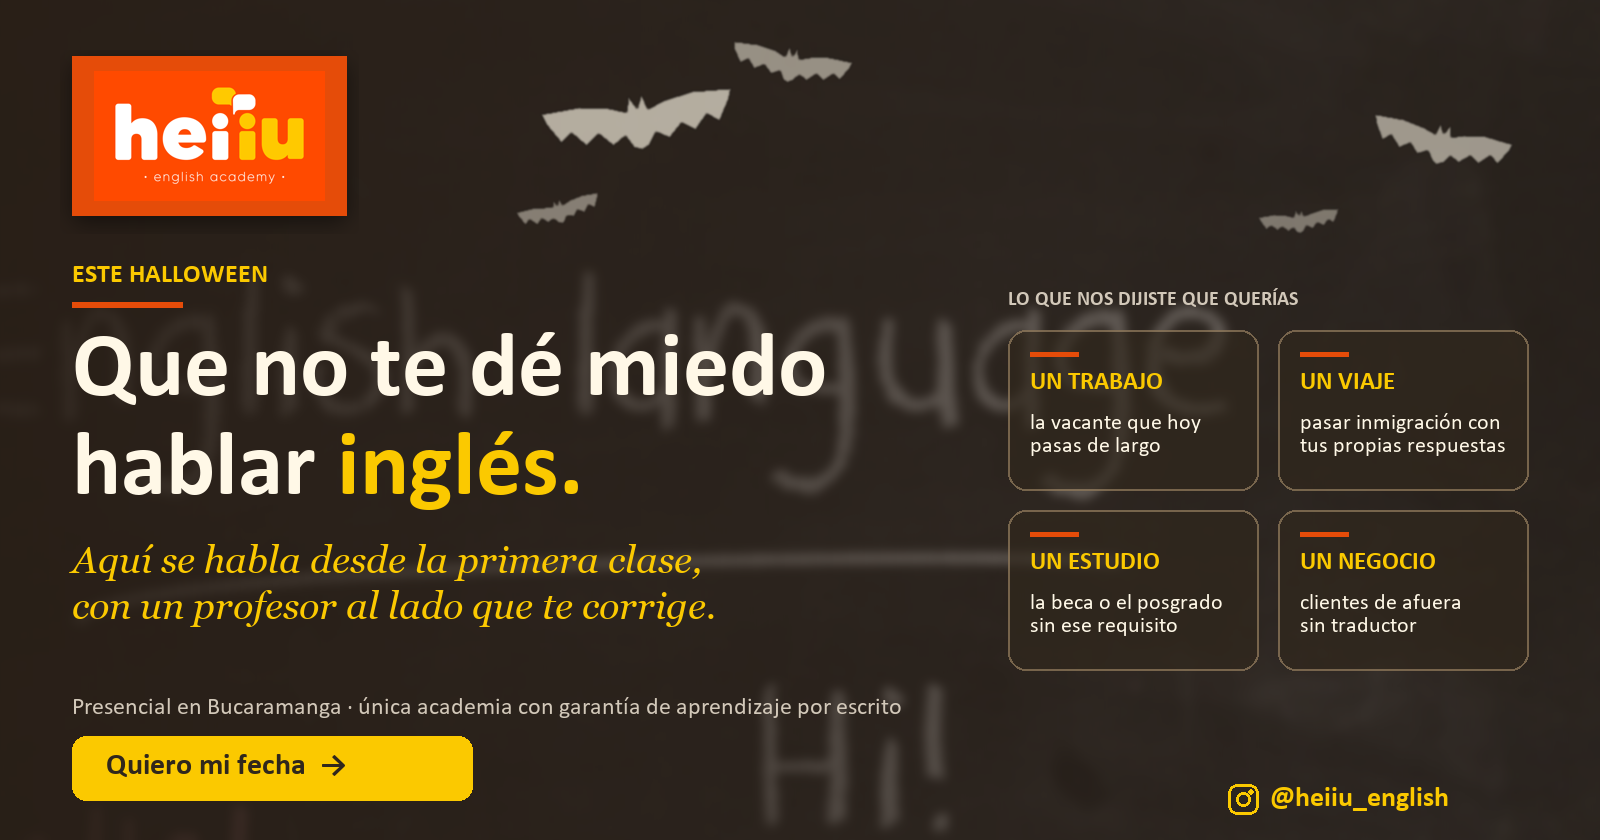
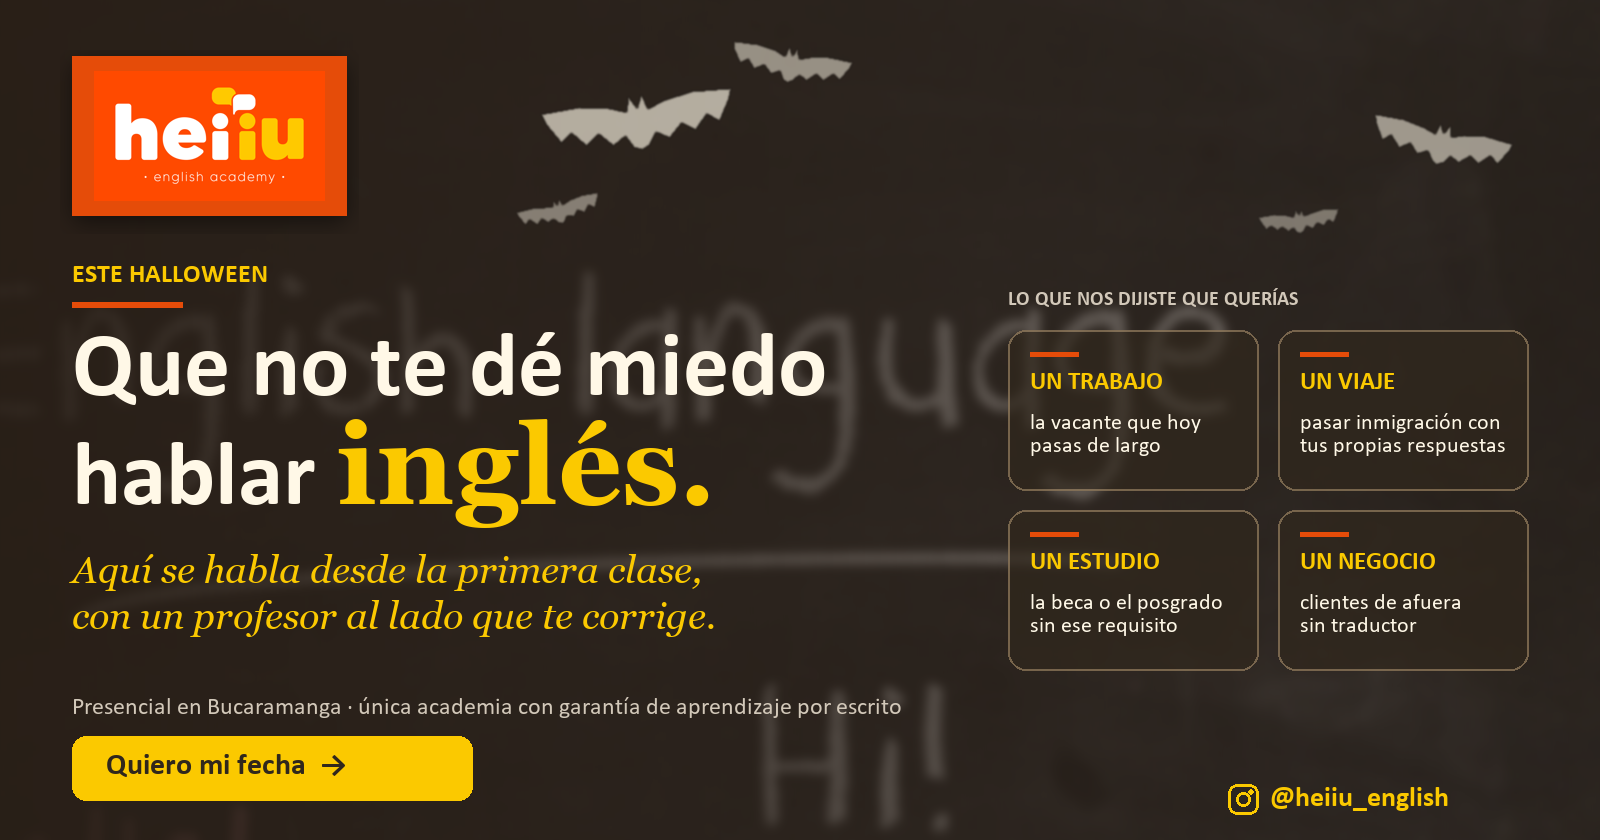
Piezas de reactivacion: 'ingles' en amarillo, mas grande y en otra letra

Changed region(s): [[0.0312, 0.4952, 0.4375, 0.7738]]

diff --git a/generadores/comercial/gen_pieza_reactivacion_halloween.py b/generadores/comercial/gen_pieza_reactivacion_halloween.py
@@ -58,16 +58,20 @@ def pieza(key, cfg):
     d.text((72, 262), 'ESTE HALLOWEEN', font=font('calibrib.ttf', 26), fill=AMAR)
     d.rectangle([72, 302, 182, 307], fill=NAR)
     ts = cfg['tsize']; y = 326
-    def linea(x, y, line, fnt, base, hi):
-        # dibuja la linea y pinta la palabra "ingles" con el color hi
-        for i, w in enumerate(line.split(' ')):
-            col = hi if w.startswith('inglés') else base
-            d.text((x, y), w, font=fnt, fill=col); x += d.textlength(w + ' ', font=fnt)
+    def linea(x, y, line, fnt, base, hi_font, hi_size):
+        # dibuja la linea; la palabra "ingles" va en amarillo, mas grande y en otra letra, alineada a la misma base
+        yb = y + fnt.getmetrics()[0]
+        for w in line.split(' '):
+            if w.startswith('inglés'):
+                f2 = font(hi_font, hi_size); d.text((x, yb), w, font=f2, fill=AMAR, anchor='ls'); x += d.textlength(w, font=f2) + d.textlength(' ', font=fnt)
+            else:
+                d.text((x, yb), w, font=fnt, fill=base, anchor='ls'); x += d.textlength(w + ' ', font=fnt)
     for line in cfg['titular']:
-        linea(72, y, line, font('calibrib.ttf', ts), CREMA, AMAR); y += int(ts * 1.08)
+        if 'inglés' in line: y += 10
+        linea(72, y, line, font('calibrib.ttf', ts), CREMA, 'georgiab.ttf', int(ts * 1.22)); y += int(ts * 1.08)
     y += 14
     for line in cfg['bajada']:
-        linea(72, y, line, font('georgiai.ttf', 38), AMAR, CREMA); y += 46
+        linea(72, y, line, font('georgiai.ttf', 38), AMAR, 'calibrib.ttf', 52); y += 46
     d.text((72, 696), 'Presencial en Bucaramanga · única academia con garantía de aprendizaje por escrito', font=font('calibri.ttf', 24), fill=GRIS)
     bx, by, bw, bh = 72, 736, 400, 64
     d.rounded_rectangle([bx, by, bx + bw, by + bh], radius=14, fill=AMAR)
